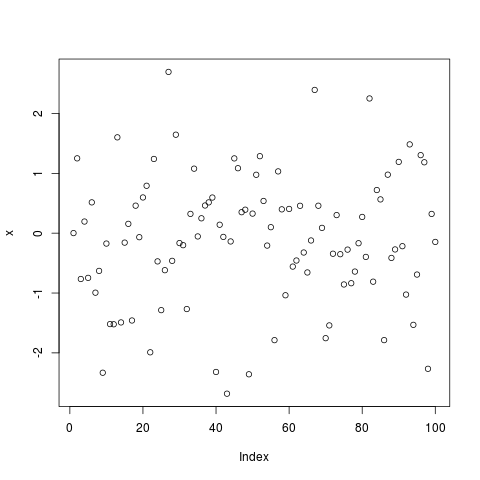
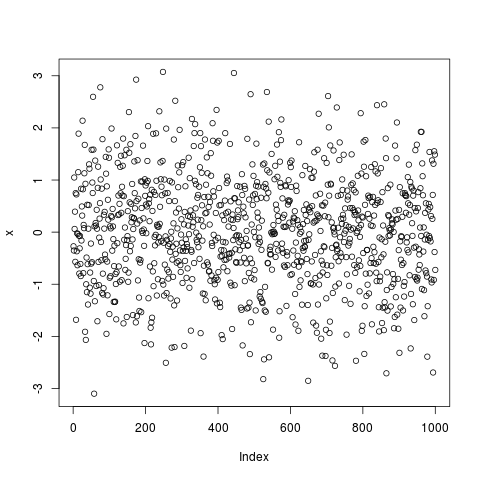
描述怎么在R中对向量进行一些简单的统计学分析

diff --git a/_posts/2017-09-01-r-vector-st.md b/_posts/2017-09-01-r-vector-st.md
@@ -1,0 +1,154 @@
+---
+layout: post
+title: "R 向量的统计学分析"
+date: 2017-09-01 18:26:36+08:00
+description: 在 R 中对数据进行简单的统计学分析
+share: true
+tags: math R
+---
+
+本章只描述 R 中用来分析向量的统计工具，
+关于向量的基础概念及常用工具，请参见我之前的文章:
+ * [R基础](./r-basics)
+ * [R的向量](./r-vector)
+
+## 简单的内省
+
+常常用向量来表示一组随机变量或者一组测试数据，然后使用统计工具来对它进行各种估计、测试等。
+为了方便描述这些分析和统计工作，现在使用一个含有较多数据的样本，
+例如直接用 rnorm() 来生成1000个服从正态分布的随机数，并绘制散点图：
+
+    > x <- rnorm(1000) # 得到一组正态分布的伪随机数据
+    > plot(x)          # 绘制这个数据的散点图
+
+![r-vector-rnorm]({{ site.baseurl | prepend:site.url }}/images/r-vector-rnorm.png){: .center-image }*服从正态分布的1000个伪随机样本*
+
+`min()`和`max()`分别求取向量的最小值和最大值。
+而`range()`同时得到向量的最小值和最大值。
+
+    > min(x)
+    [1] -3.099832
+    > max(x)
+    [1] 3.074217
+    > range(x)
+    [1] -3.099832  3.074217
+
+`sum()` 可以用来对一个向量求和。 `sd()` 可以得到向量的标准差。 `var()` 和
+`cov()` 都可以用来计算一个向量的方差或者两个向量的协方差，`cor()` 可以用来计算
+两个向量的相关系数(correlation)。
+
+    > sum(x)
+    [1] 4.60153
+    > sd(x)
+    [1] 1.040268
+    > var(x)
+    [1] 1.082157
+
+协方差和相关系统发生在两个向量之间，所以还需要构造一个等长的向量来描述 cov() 和
+cor() 的功能：
+
+    > y <- rnorm(1000)
+    > var(x,y)
+    [1] -0.005219245
+    > cov(x,y)
+    [1] -0.005219245
+    > cor(x,y)
+    [1] -0.004934983
+
+从上面的结果知 var(x,y) 和 cov(x,y) 是一回事。x和y这两个随机样本的协方差很小，
+说明这两个数据不太相似，并且相关系数也很小，就更能说明这两个数据是无关的了。
+因为它们本来都是随机数据，两组随机数据自然应该是无关的了。
+
+如果把这两组随机数据排一下序，由于它们都服从同样的分布，排序后应该会十分相似才
+对。现在来验证一下。
+
+    > x.sort <- sort(x)
+    > y.sort <- sort(y)
+    > cov(x.sort, y.sort)
+    [1] 1.056269
+    > cor(x.sort, y.sort)
+    [1] 0.9987406
+
+从上面的结果可以看出排序后的两个数据相似程度很高，相关系数接近了100%。
+
+## 直观的数据分布情况
+
+`density()` 得到一个向量的密度分布，用它可以把 x 的密度分布图形绘制出来。
+
+    > plot(density(x, bw="SJ"))    # 绘制密度分布曲线
+    > rug(jitter(x, amount=0.01))  # 在密度分布曲线下方绘制数据点
+
+![r-vector-density]({{ site.baseurl | prepend:site.url }}/images/r-vector-density.png){: .center-image }*此样本的密度分布*
+
+`fivenum()` 可以得到向量的5值表示，5值分别是最小值、低分位点、中位点、高分位点、最大值。
+
+    > fivenum(x)
+    [1] -3.09983208 -0.65490409  0.02000248  0.70135656  3.07421686
+
+`quantile()` 可以获得向量的分位点。使用 quantile() 得到的分位点与 fivenum() 的
+存在细微的区别， quantile() 使用的是估计值。
+
+    > quantile(x)
+             0%         25%         50%         75%        100%
+    -3.09983208 -0.65330947  0.02000248  0.70109797  3.07421686
+
+`summary()` 可以快速获得向量的整体印象，与quantile()类似，多一个平均值。
+
+    > summary(x)
+         Min.   1st Qu.    Median      Mean   3rd Qu.      Max.
+    -3.100000 -0.653300  0.020000  0.004602  0.701100  3.074000
+
+`hist()` 直接绘制出向量的统计直方图，它的效果与绘制 cut() 的效果相似：
+
+    > hist(x)
+    > plot(cut(x, 20))
+
+![r-vector-hist]({{ site.baseurl | prepend:site.url }}/images/r-vector-hist.png){: .center-image }*此样本的统计直方图*
+
+![r-vector-cut]({{ site.baseurl | prepend:site.url }}/images/r-vector-cut.png){: .center-image }*此样本的cut图*
+
+
+## 数据分布的进阶分析
+
+`ecdf()` 可以得到一个向量的经验积累分布函数。
+
+    > x.ecdf <- ecdf(x)
+    > plot(x.ecdf)
+
+![r-vector-ecdf]({{ site.baseurl | prepend:site.url }}/images/r-vector-ecdf.png){: .center-image }*此样本的经验积累分布函数曲线*
+
+需要注意的是 ecdf() 得到的是一个数值函数。
+
+    > x.x <- seq(min(x), max(x), len=21)
+    > plot(x.x, x.ecdf(x.x))
+
+![r-vector-ecdf2]({{ site.baseurl | prepend:site.url }}/images/r-vector-ecdf2.png){: .center-image }*经验积累分布曲线*
+
+`cumsum()` 积累求和函数。除了 ecdf() 之外，也可以使用 cumsum() 按如下的方法更加
+精致的来绘制积累求和曲线，注意与 ecdf() 曲线的形状相同但纵轴的数值不同：
+
+    > x.r <- seq(min(x), max(x), len=20)     # 准备一个均匀的区间点
+    > x.c <- cut(x, x.r)                     # 按区间建立数据点的索引
+    > x.t <- table(x.c)                      # 统计每个区间上出现的数据点的个数，即统计直方图
+    > plot(x.r, cumsum(c(0,x.t)), type='b')  # 基于 cumsum() 绘制积累求和曲线
+
+![r-vector-cumsum]({{ site.baseurl | prepend:site.url }}/images/r-vector-cumsum.png){: .center-image }* cumsum 积累求和曲线*
+
+`pnorm()` 正态分布的概率分布函数。可以用来对比一个数据的 ecdf() 曲线是否与正态
+分布的概率分布函数相接近，由此来直观地判断这个数据是否服务正态分布。类似的，R中
+还有大量概率分布模型的分布函数可以使用。
+
+    > plot(ecdf(x), do.points=FALSE, verticals=TRUE)         # 先画上数据的 ecdf 分布
+    > lines(x.r, pnorm(x.r, mean=mean(x), sd=sd(x)), col=2)  # 再叠加概率分布函数
+
+![r-vector-pnorm]({{ site.baseurl | prepend:site.url }}/images/r-vector-pnorm.png){: .center-image }*概率分布曲线对比*
+
+`qqnorm()`和`qqline()` 对于正态分布，可以使用 qqnorm() 来绘制 q-q 图，即按正态
+分布的分位点来标画数据的分位点，如果得到的点大致分布在 x=y 直线的附近，则直观地
+说明数据服从正态分布。qqline() 则
+
+    > qqnorm(x)
+    > qqline(x, lty=2, col=2)
+
+![r-vector-qqplot]({{ site.baseurl | prepend:site.url }}/images/r-vector-qqplot.png){: .center-image }*正态分布Q-Q对比*
+

diff --git a/_posts/2017-08-21-r-vector.md b/_posts/2017-08-21-r-vector.md
@@ -7,6 +7,8 @@ share: true
 tags: math R
 ---
 
+## 向量的概念
+
 关于“向量”，我已经在文章 [R基础](./r-basics) 中做了描述，这里再做些补充。
 
 在 R 中，一般可以使用“数”的地方常常也可以使用“向量”，可以认为“向量”就是一种新的“数”，
@@ -88,6 +90,119 @@ tags: math R
     [1] FALSE
     >
 
+
+## 向量的一些常用工具
+
+`length()` 得到向量长度（元素的个数）。
+
+    > x <- round(rnorm(10) * 10)
+    > x
+     [1]   9  12  12 -10  -5  -3   2 -12   5   1
+    > length(x)
+    [1] 10
+
+`names()` 得到向量的名字向量，即向量中各元素的名字所在的向量，可以通过改变这个向量来对向量中的元素命名。
+
+    > names(x)
+    NULL
+    > names(x) <- 1:10
+    > names(x)
+     [1] "1"  "2"  "3"  "4"  "5"  "6"  "7"  "8"  "9"  "10"
+
+`sort()`  对向量的元素进行排序，可按升序或降序排列，默认为升序排列。
+
+    > sort(x)
+      8   4   5   6  10   7   9   1   2   3
+    -12 -10  -5  -3   1   2   5   9  12  12
+    > sort(x, decreasing=TRUE)
+      2   3   1   9   7  10   6   5   4   8
+     12  12   9   5   2   1  -3  -5 -10 -12
+    > sort(x, index.return=TRUE)
+    $x
+      8   4   5   6  10   7   9   1   2   3
+    -12 -10  -5  -3   1   2   5   9  12  12
+
+    $ix
+     [1]  8  4  5  6 10  7  9  1  2  3
+
+`rev()` 把向量中的元素顺序颠倒，最前面的排到最后，最后面的排到最前。
+
+    > rev(x)
+     10   9   8   7   6   5   4   3   2   1
+      1   5 -12   2  -3  -5 -10  12  12   9
+
+`order()` 获得排序后的元素所在原向量中的位置，相当于 sort(x,
+index.return=TRUE)$ix，在这个例子中因为一开始就把元素的位置对元素进行了命名，所
+以 order() 的结果就相当于 sort() 得到的向量的名字向量。
+
+    > order(x)
+     [1]  8  4  5  6 10  7  9  1  2  3
+    > names(sort(x))
+     [1] "8"  "4"  "5"  "6"  "10" "7"  "9"  "1"  "2"  "3"
+    > as.integer(names(sort(x)))
+     [1]  8  4  5  6 10  7  9  1  2  3
+    > sort(x, index.return=TRUE)$ix
+     [1]  8  4  5  6 10  7  9  1  2  3
+
+按 order() 的结果来从原向量中可以选取出元素得到排序后的向量。
+
+    > x[order(x)]
+      8   4   5   6  10   7   9   1   2   3
+    -12 -10  -5  -3   1   2   5   9  12  12
+
+`rank()` 对向量中的元素进行排名，并在原向量的每个元素的对应位置上给出元素的名次
+，默认是按从小到大排名的。如果有重复的元素，则在一个名次上由多个元素来均摊，所
+以会有浮点数出现。
+
+    > rank(x)
+      1   2   3   4   5   6   7   8   9  10
+    8.0 9.5 9.5 2.0 3.0 4.0 6.0 1.0 7.0 5.0
+
+从排名的结果可以看出，原向量中第8个元素排第1名，也就是它是最小值。另外注意到第2
+、3个元素的排名值出现了小数部分，原本应该一个排9，一个排10，但两个元素的值相同
+，所以平分了从9到10之间的名次。
+
+`unique()` 去掉向量中的重复值，如果向量中有重复值时去掉重复值后，新向量的长度会
+变短，元素的名字也会被忽略。
+
+    > unique(x)
+    [1]   9  12 -10  -5  -3   2 -12   5   1
+
+`duplicated()` 检查向量中的每个元素，看看是否之前已经有出现过，如果出现过就为
+TRUE，否则为 FALSE。可以用它来选出向量中重复的元素。
+
+    > duplicated(x)
+     [1] FALSE FALSE  TRUE FALSE FALSE FALSE FALSE FALSE FALSE FALSE
+    > x[duplicated(x)]
+     3
+    12
+
+从上面的结果知第3号元素在之前已经出现过了，有重复。
+
+`cut()`把向量分成等间距的组，并为每个元素指定一个组索引。
+
+    > cut(x,3)
+     [1] (4,12]   (4,12]   (4,12]   (-12,-4] (-12,-4] (-4,4]   (-4,4]   (-12,-4]
+     [9] (4,12]   (-4,4]
+    Levels: (-12,-4] (-4,4] (4,12]
+
+`stem()` 为向量生成 stem-and-leaf 图，这种图是一个用文本字符表示的可获得直观分
+布形状的统计图。当可以使用图形表示时最好使用 hist() 或 density()，所以它的用武
+之地越来越少了。
+
+    > stem(rnorm(100))
+
+      The decimal point is at the |
+
+      -2 | 75410
+      -1 | 97765432210000
+      -0 | 9999888777665433333222111
+       0 | 012222223333344444444455566677778899999
+       1 | 0011222225777789
+       2 | 6
+
+## 把向量描绘成曲线
+
 可以使用一个向量来表示一条曲线，并且可以绘制出它的近似图形。
 例如用向量来近似表示一条悬链线，并画出来：
 
@@ -110,20 +225,4 @@ tags: math R
 
 ![r-vector-heart]({{ site.baseurl | prepend:site.url }}/images/r-vector-heart.png){: .center-image }
 *用两个向量画出来的近似迪卡尔心形线*
-
-常常用向量来表示一组随机变量或者一组测试数据，然后使用统计工具来对它进行各种估计、测试等。
-例如直接用 rnorm() 来生成100个服从正态分布的随机数，
-并绘制散点图：
-
-    x <- rnorm(100)
-    plot(x)
-
-![r-vector-heart]({{ site.baseurl | prepend:site.url }}/images/r-vector-rnorm.png){: .center-image }*服从正态分布的100个伪随机样本*
-
-绘制它的密度分布图形:
-
-    plot(density(x, bw="SJ"))
-    rug(jitter(x, amount=0.01))
-
-![r-vector-heart]({{ site.baseurl | prepend:site.url }}/images/r-vector-density.png){: .center-image }*这一组样本的密度分布*
 
